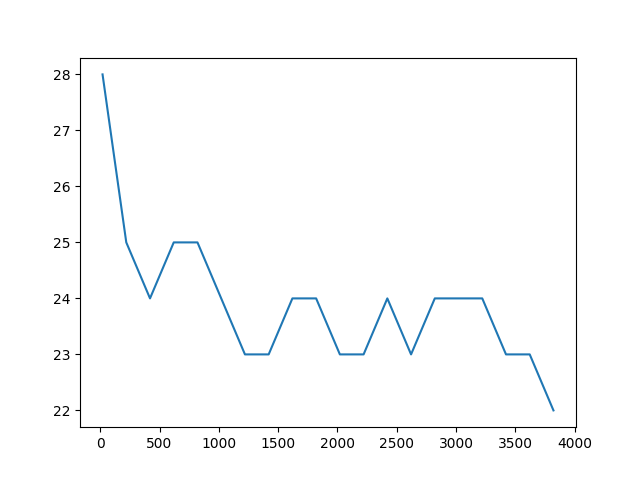
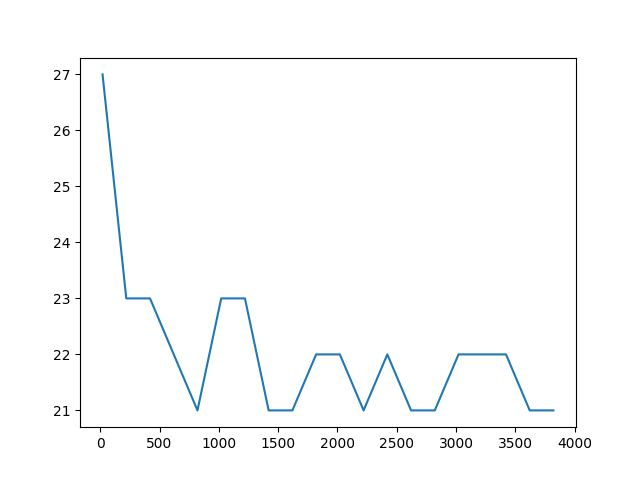
Se dibuja el grafo si tiene menos de 10 nodos

diff --git a/graph_draw.py b/graph_draw.py
@@ -1,0 +1,27 @@
+import networkx as nx
+from matplotlib import pyplot as plt
+
+
+def draw_graph(grafo, path):
+    G = nx.Graph()
+    G.add_nodes_from(range(len(grafo)))
+    for i, row in enumerate(grafo):
+        for j, peso in enumerate(row):
+            if i != j:
+                axis_data = {'weight': peso}
+
+                G.add_edge(i, j, **axis_data)
+    pos = nx.circular_layout(G)
+    nx.draw(G, pos, with_labels=True, font_weight='bold')
+    colors = nx.get_node_attributes(G, 'color')
+    nx.draw_networkx_labels(G, pos, colors)
+    labels = nx.get_edge_attributes(G, 'weight')
+    nx.draw_networkx_edge_labels(G, pos, edge_labels=labels)
+    nx.draw_networkx_edges(
+        G,
+        pos,
+        edgelist=path,
+        edge_color="tab:red",
+    )
+    plt.savefig(f"resultados/grafo-{len(grafo)}.png")
+    plt.close()

diff --git a/main.py b/main.py
@@ -3,11 +3,13 @@ import json
 from matplotlib import pyplot as plt
 
 from generador import generar
+from graph_draw import draw_graph
 from grasp import grasp
+
 
 if __name__ == '__main__':
 
-    for n in [8, 10, 20]:
+    for n in [5, 10, 20]:
         print(f"Generando grafo de {n} nodos")
         generar(n)
         with open("input.json", "r") as file:
@@ -29,3 +31,6 @@ if __name__ == '__main__':
             plt.plot(x, y)
             plt.savefig(f"resultados/grasp-{len(grafo)}.png")
             plt.close()
+
+        if len(grafo) < 10:
+            draw_graph(grafo, result[1])
